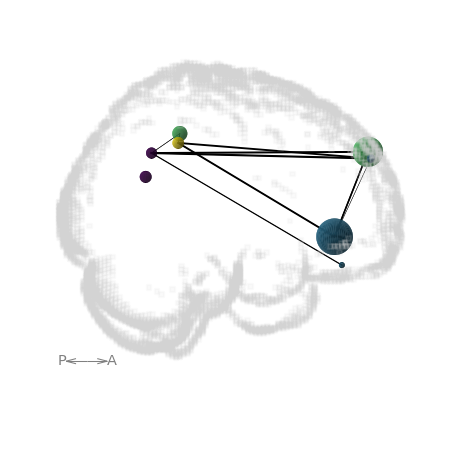
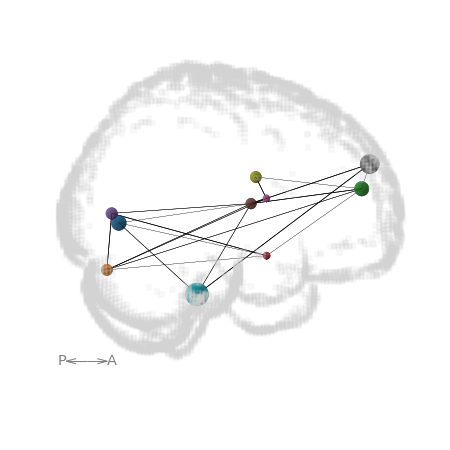
def_get_color

diff --git a/netplotbrain/plot.py b/netplotbrain/plot.py
@@ -7,7 +7,7 @@ from .plotting import _plot_template, _plot_template_style_filled, _plot_templat
 
 def plot(nodes=None, fig=None, ax=None, view='L', frames=1, edges=None, template=None, templatestyle='filled', templatealpha=0.2,
          templatevoxsize=2, templatecolor='lightgray', surface_resolution=2, templateedgethreshold=0.7, arrowaxis='auto', arrowlength=10,
-         arroworigin=None, edgecolor='k', edgewidth='auto', nodesize=1, nodescale=5, nodecolor='salmon', nodetype='spheres',
+         arroworigin=None, edgecolor='k', edgewidth='auto', nodesize=1, nodescale=5, nodecolor='salmon', nodetype='spheres', colorby='communities',
          weightcol='weights', nodecols=['x', 'y', 'z'], nodeimg=None, nodealpha=1):
     # sourcery skip: merge-nested-ifs
     """
@@ -138,7 +138,7 @@ def plot(nodes=None, fig=None, ax=None, view='L', frames=1, edges=None, template
             if nodes is not None:
                 if nodetype == 'spheres':
                     _plot_spheres(ax, nodes, nodecolor=nodecolor,
-                                  nodesize=nodesize, nodecols=nodecols, nodescale=nodescale)
+                                  nodesize=nodesize, nodecols=nodecols, nodescale=nodescale, colorby=colorby)
                 elif nodetype == 'circles':
                     _plot_nodes(ax, nodes, nodecolor=nodecolor,
                                 nodesize=nodesize, nodecols=nodecols)

diff --git a/netplotbrain/plotting/plot_spheres.py b/netplotbrain/plotting/plot_spheres.py
@@ -4,7 +4,14 @@ import pandas as pd
 import random
 from matplotlib import cm
 
-
+def _get_color(nodes, colorby='communities', cmap='plasma'):
+    
+    cat = np.unique(nodes[colorby])
+    cmap = cm.get_cmap(cmap)
+    colors = cmap(np.linspace(0, 1, len(cat)))
+    colordict = dict(zip(cat, colors))
+    nodes["Color"] = nodes[colorby].apply(lambda z:colordict[z])
+        
 def _plot_spheres(ax, nodes, nodecolor='salmon', colorby='communities', nodesize=20, nodescale=1, nodecols=['x', 'y', 'z'], alpha=None):
     """
     Function that plots spheres in figure
@@ -54,11 +61,8 @@ def _plot_spheres(ax, nodes, nodecolor='salmon', colorby='communities', nodesize
                             color=nodecolor,
                             alpha=alpha)
         if colorby in nodes.keys():
-            cat = np.unique(nodes[colorby])
-            viridis = cm.get_cmap('viridis', 12)
-            colors = viridis(np.linspace(0, 1, len(cat)))
-            colordict = dict(zip(cat, colors))
-            nodes["Color"] = nodes[colorby].apply(lambda z:colordict[z])
             ax.plot_surface(c[0]+x, c[1]+y, c[2]+z,
-                            color=nodes.Color[index],
+                            color=_get_color(nodes),
                             alpha=alpha)
+        
+        

diff --git a/examples/example1.py b/examples/example1.py
@@ -17,10 +17,10 @@ z = np.random.uniform(-40, 50, n)
 # Some random centrality measures to demonstrate size
 centrality_measure1 = np.random.binomial(10, 0.3, n) / 10
 centrality_measure2 = np.random.binomial(10, 0.6, n) / 10
-communities = np.array([1, 1, 5, 5, 5, 7, 7, 8])
+communities = np.array([1, 1, 5, 5, 5, 7, 7, 8, 7, 9])
 nodesdf = pd.DataFrame(data={'x': X, 'y': y,
                            'z': z, 'centrality_measure1': centrality_measure1,
-                           'centrality_measure2': centrality_measure2,
+                           'centrality_measure2': centrality_measure2, 
                            'communities': communities})
 
 ## CREATE THE EDGES.
@@ -62,6 +62,7 @@ netplotbrain.plot(template='MNI152NLin2009cAsym',
          nodes=nodesdf,
          nodesize='centrality_measure1',
          edges=edges,
+         colorby='communities',
          view=['LSR', 'AIP'])
 plt.savefig('./examples/figures/rows1.png', dpi=150)
 
